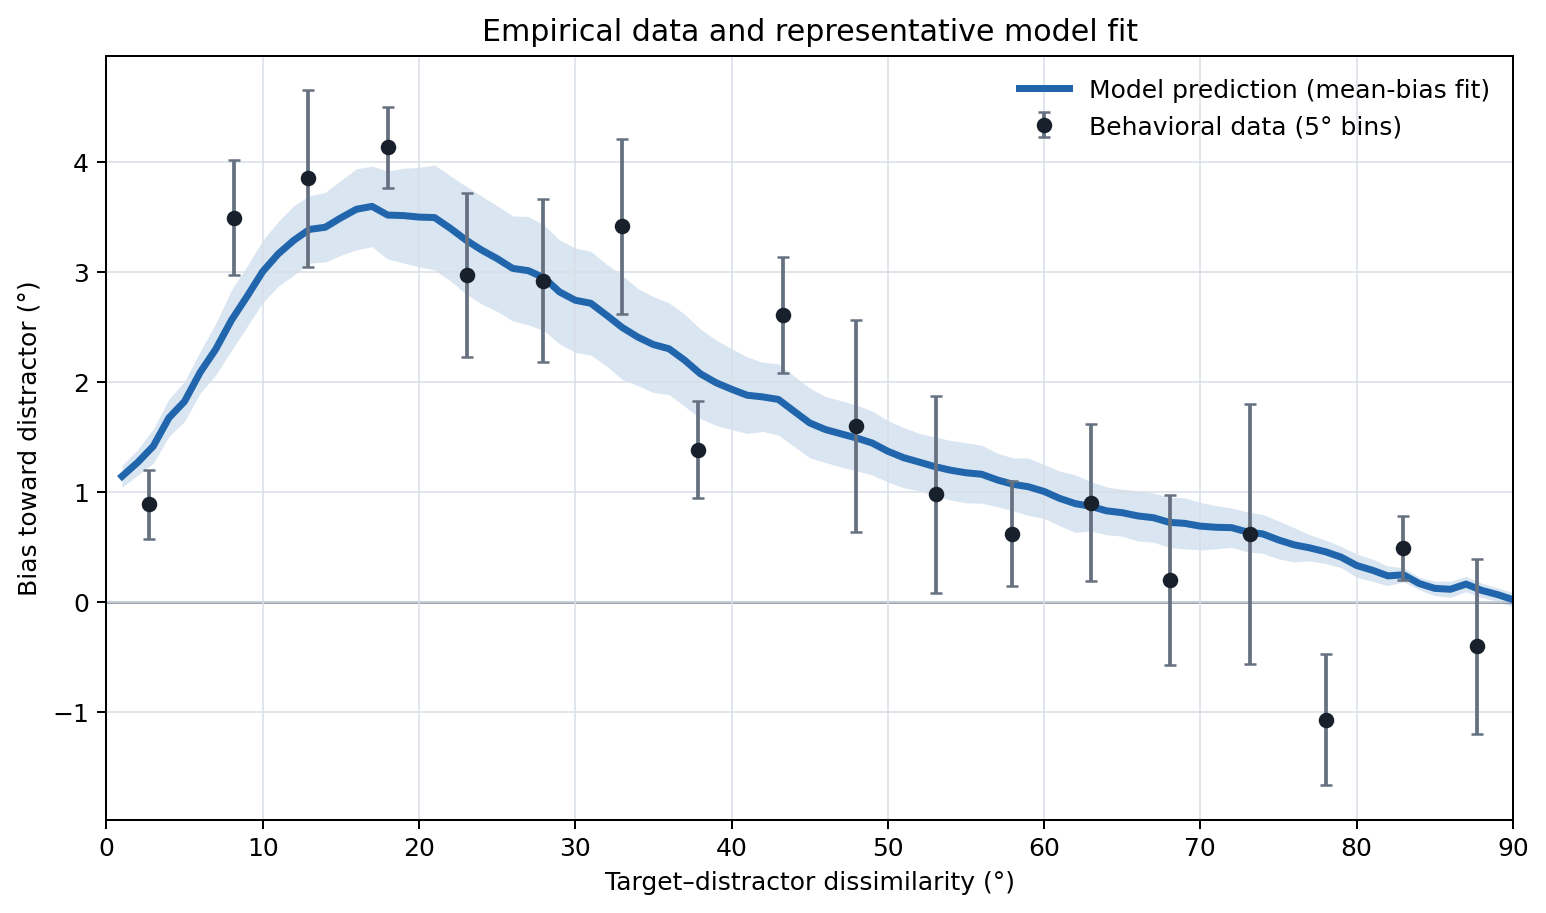
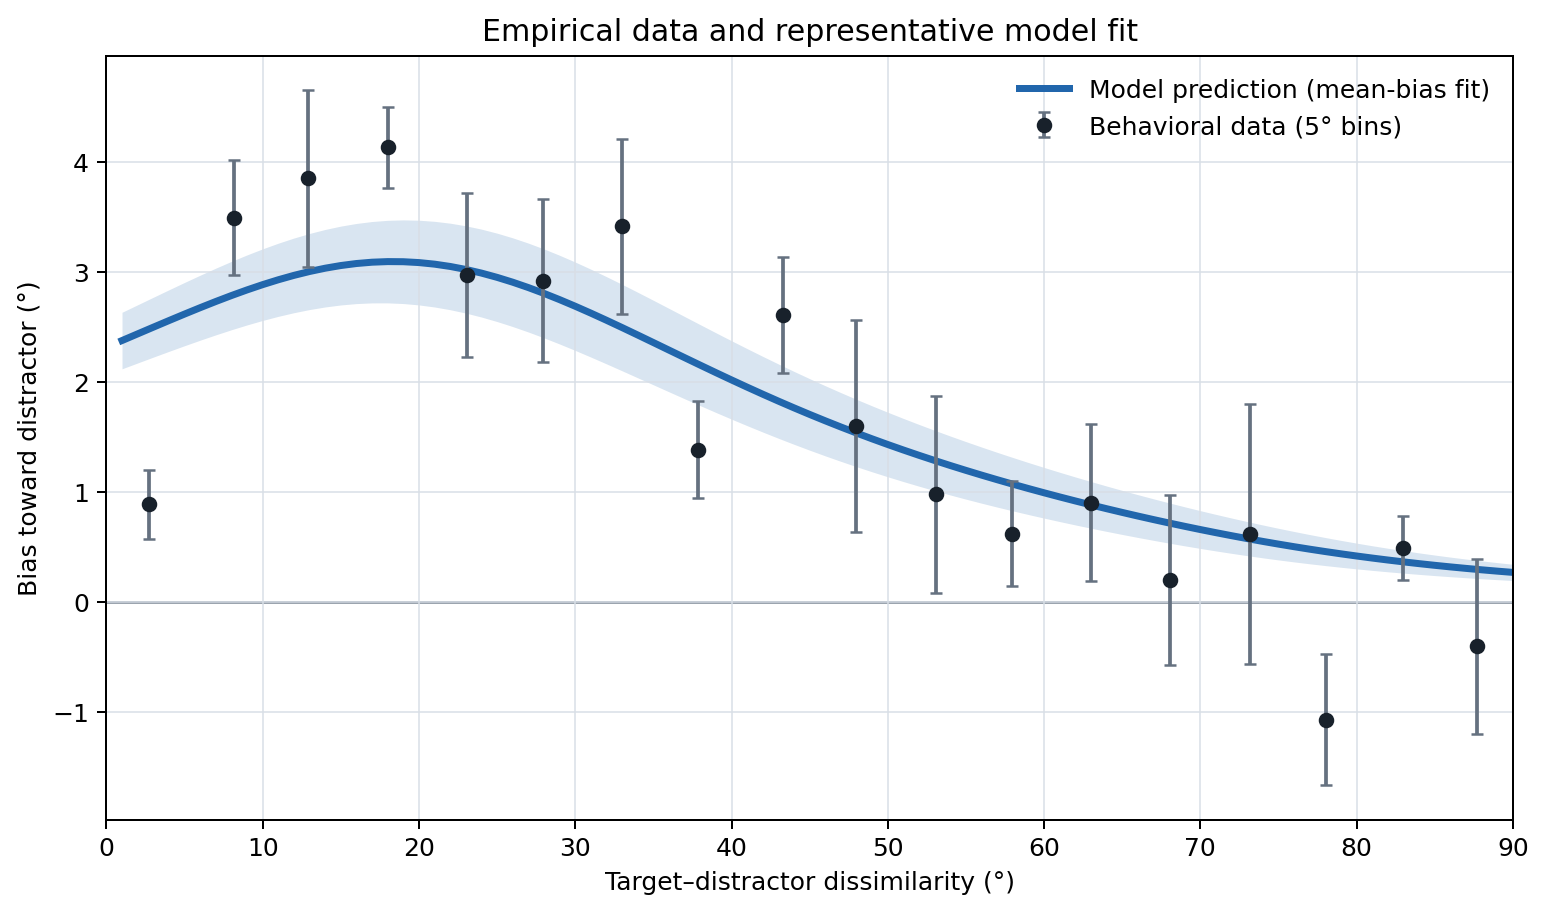
Refresh WNM documentation figures and fix legacy test import

diff --git a/docs/generate_pipeline_figure.py b/docs/generate_pipeline_figure.py
@@ -1,29 +1,34 @@
 #!/usr/bin/env python3
-"""Generate a model-grounded illustration of the Demixing Model pipeline.
+"""Generate a model-grounded illustration of the current WNM pipeline.
 
-The construction panels illustrate the operations performed by the code rather
-than one exact training run. The likelihood surface, CSH2026 predictions,
-behavioral observations, and fitted curve come from project outputs.
+The construction panels illustrate the operations rather than one training run.
+The response density comes from the WNM simulator; the network tile and curves
+use packaged-WNM predictions and current fit exports.
 """
 
 import argparse
-import pickle
 import sys
 from pathlib import Path
 
+import jax
 import matplotlib.pyplot as plt
 from matplotlib.lines import Line2D
 from matplotlib.patches import FancyArrowPatch, FancyBboxPatch
 import numpy as np
 import pandas as pd
+from scipy.ndimage import gaussian_filter
 
 
 REPO_ROOT = Path(__file__).resolve().parents[1]
 sys.path.insert(0, str(REPO_ROOT))
-sys.path.insert(0, str(REPO_ROOT / "neural_network_optimization"))
 
-from docs.generate_readme_figures import prepare_fitting_data  # noqa: E402
-from shared.utils import AveragedSurface  # noqa: E402
+from docs.generate_readme_figures import _first_list, prepare_fitting_data  # noqa: E402
+from shared.mu1_axis import bin_indices_np, mu1_grid_np  # noqa: E402
+from shared.prediction import predictor_from_surrogate  # noqa: E402
+from shared.surrogate import load_surrogate  # noqa: E402
+from surface_computation.wnm_simulation import simulate  # noqa: E402
+
+plt.style.use("default")
 
 
 NAVY = "#101f5b"
@@ -42,15 +47,6 @@ def _require(path: Path, label: str) -> Path:
     if not path.is_file():
         raise FileNotFoundError(f"{label} not found: {path}")
     return path
-
-
-class _SurfaceUnpickler(pickle.Unpickler):
-    """Read surfaces saved before AveragedSurface moved out of __main__."""
-
-    def find_class(self, module, name):
-        if module == "__main__" and name == "AveragedSurface":
-            return AveragedSurface
-        return super().find_class(module, name)
 
 
 def _rounded_box(fig, bounds, edge, face="white", linewidth=1.5, radius=0.018):
@@ -83,12 +79,31 @@ def _polyline(fig, points, color=NAVY, linewidth=2.2):
     fig.lines.append(line)
 
 
-def _load_surface(path: Path):
-    with _require(path, "Averaged surface").open("rb") as stream:
-        record = _SurfaceUnpickler(stream).load()
-    if "parameters" not in record or "surface" not in record:
-        raise ValueError(f"Unexpected averaged-surface structure: {path}")
-    return record
+def _response_surfaces(predictions):
+    """Simulated training responses and a matching packaged-WNM prediction."""
+    row = predictions.iloc[len(predictions) // 2]
+    feature_grid = _first_list(predictions["feat_diff_grid"])
+    params = {name: float(row[name]) for name in ("sd_feat1", "sd_feat2", "sd_spat")}
+    n_samples = int(predictions["n_samples"].dropna().iloc[0])
+    design = np.column_stack((
+        *(np.full_like(feature_grid, params[name]) for name in params), feature_grid,
+    ))
+    predictor = predictor_from_surrogate(load_surrogate(n_samples=n_samples))
+    mass = np.asarray(predictor.cell_probabilities(design))
+    bias_grid = mu1_grid_np()
+    responses = np.asarray(simulate(jax.random.PRNGKey(7), design,
+                                    n_simulations=200, n_samples=n_samples,
+                                    block_rows=4))[:, :, 0]
+    counts = np.stack([np.bincount(bin_indices_np(row), minlength=len(bias_grid))
+                       for row in responses])
+    simulated = gaussian_filter(counts.astype(float), sigma=(1.5, 1.5),
+                                mode=("nearest", "wrap"))
+    simulated /= simulated.sum(axis=1, keepdims=True)
+    return {"parameters": {**params, "n_samples": n_samples,
+                           "random_seed": 7},
+            "surface": simulated.T, "predicted_surface": mass.T,
+            "feat_diff_grid": feature_grid,
+            "mu1_bias_grid": bias_grid}
 
 
 def _generate_evidence(surface_params, feature_difference=40.0, ident_difference=25.0):
@@ -125,16 +140,13 @@ def _plot_simulation(ax, surface_params):
     ax.grid(color=GRID, linewidth=0.4, alpha=0.5)
 
 
-def _surface_density(record):
-    surface = record["surface"]
-    log_density = np.asarray(surface.mu1_comp1_surface, dtype=float)
-    feature_grid = np.asarray(surface.feat_diff_grid, dtype=float)
-    bias_grid = np.asarray(surface.mu1_bias_grid, dtype=float)
+def _surface_density(record, field="surface"):
+    density = np.asarray(record[field], dtype=float)
+    feature_grid = np.asarray(record["feat_diff_grid"], dtype=float)
+    bias_grid = np.asarray(record["mu1_bias_grid"], dtype=float)
     mask_bias = (bias_grid >= -60) & (bias_grid <= 60)
     mask_feature = feature_grid <= 140
-    log_density = log_density[np.ix_(mask_bias, mask_feature)]
-    relative = np.exp(log_density - np.nanmax(log_density, axis=0, keepdims=True))
-    relative /= np.maximum(relative.sum(axis=0, keepdims=True), np.finfo(float).tiny)
+    relative = density[np.ix_(mask_bias, mask_feature)]
     relative /= relative.max()
     return feature_grid[mask_feature], bias_grid[mask_bias], relative
 
@@ -174,7 +186,7 @@ def _plot_network(ax, record):
         color = ("#91b7e9", "#9a76dd", "#80c96b")[index]
         ax.scatter(np.full_like(ys, x), ys, s=52, color=color, edgecolor=NAVY,
                    linewidth=0.65, zorder=2)
-    _, _, tile = _surface_density(record)
+    _, _, tile = _surface_density(record, "predicted_surface")
     ax.imshow(tile, extent=(0.79, 0.98, 0.33, 0.67), origin="lower",
               cmap="viridis", aspect="auto", interpolation="bilinear", zorder=2)
     for y in layer_y[-1]:
@@ -186,35 +198,23 @@ def _plot_network(ax, record):
 
 
 def _plot_predictions(ax, predictions):
-    required = {"sd_feat1", "sd_feat2", "sd_spat", "feat_diff", "mu1_density_asymmetry"}
+    required = {"sd_feat1", "sd_feat2", "sd_spat", "mu1_expectation_curve", "feat_diff_grid"}
     missing = required.difference(predictions.columns)
     if missing:
-        raise ValueError(f"CSH2026 prediction export lacks columns: {sorted(missing)}")
-    selected = predictions[
-        (predictions["sd_feat1"] == 40)
-        & predictions["sd_feat2"].isin((20, 40, 60))
-        & (predictions["sd_spat"] == 20)
-    ]
-    styles = (
-        (20, "Higher", "#d55e00"),
-        (40, "Same", "#009e73"),
-        (60, "Lower", "#0072b2"),
-    )
-    for non_target_noise, label, color in styles:
-        curve = selected[selected["sd_feat2"] == non_target_noise].sort_values("feat_diff")
-        if curve.empty:
-            raise ValueError(f"CSH2026 predictions are missing the '{label}' curve")
-        ax.plot(curve["feat_diff"], 100 * curve["mu1_density_asymmetry"],
-                color=color, linewidth=1.8, label=label)
+        raise ValueError(f"WNM prediction export lacks columns: {sorted(missing)}")
+    feature_grid = _first_list(predictions["feat_diff_grid"])
+    for (_, row), color in zip(predictions.iterrows(), ("#2c7bb6", "#f28e2b", "#b2182b")):
+        ax.plot(feature_grid, np.asarray(row["mu1_expectation_curve"]),
+                color=color, linewidth=1.8, label=f"{row['sd_spat']:g}°")
     ax.axhline(0, color="#7b8794", linewidth=0.8, linestyle=(0, (4, 3)))
-    ax.set_xlim(4, 180)
-    ax.set_xticks((4, 45, 90, 135, 180))
+    ax.set_xlim(feature_grid[0], feature_grid[-1])
+    ax.set_xticks((2, 45, 90, 135, 180))
     ax.set_xlabel("item dissimilarity (°)", fontsize=7, labelpad=1)
-    ax.set_ylabel("bias (%)", fontsize=7.3, labelpad=2)
+    ax.set_ylabel("predicted bias (°)", fontsize=7.3, labelpad=2)
     ax.tick_params(labelsize=6.5, length=2)
     ax.spines[["top", "right"]].set_visible(False)
     ax.grid(color=GRID, linewidth=0.45, alpha=0.65)
-    ax.legend(title="Target noise relative\nto non-target", frameon=False,
+    ax.legend(title="Identifiability noise", frameon=False,
               fontsize=6, title_fontsize=6, loc="lower right", handlelength=2.3)
 
 
@@ -242,8 +242,8 @@ def _plot_fit(ax, trials_path, curves_path, objective):
 
 
 def create_pipeline_figure(args):
-    surface_record = _load_surface(args.surface)
-    predictions = pd.read_csv(_require(args.csh_predictions, "CSH2026 prediction export"))
+    predictions = pd.read_parquet(_require(args.predictions, "WNM prediction export"))
+    surface_record = _response_surfaces(predictions)
     _require(args.trials, "Prepared behavioral trials")
     _require(args.fit_curves, "Fitted-curve export")
 
@@ -251,7 +251,7 @@ def create_pipeline_figure(args):
     fig.text(0.5, 0.963, "Demixing Model pipeline", ha="center", va="top",
              fontsize=29, weight="bold", color=NAVY)
     fig.text(0.5, 0.912,
-             "From simulated evidence to theoretical predictions and fits of behavioral data",
+             "From simulated responses to predictions and fits of behavioral data",
              ha="center", va="top", fontsize=14, style="italic", color="#49619c")
 
     _rounded_box(fig, (0.018, 0.055, 0.445, 0.80), CONSTRUCTION, CONSTRUCTION_BG)
@@ -273,8 +273,8 @@ def create_pipeline_figure(args):
     for bounds in construction_boxes:
         _rounded_box(fig, bounds, CONSTRUCTION, "white", linewidth=1.1, radius=0.012)
     fig.text(0.091, 0.704, "1. Simulations", ha="center", fontsize=12, weight="bold", color=INK)
-    fig.text(0.229, 0.704, "2. Surface creation", ha="center", fontsize=12, weight="bold", color=INK)
-    fig.text(0.378, 0.704, "3. Neural-network training", ha="center", fontsize=10.5,
+    fig.text(0.229, 0.704, "2. Response density", ha="center", fontsize=12, weight="bold", color=INK)
+    fig.text(0.378, 0.704, "3. Surrogate training", ha="center", fontsize=10.5,
              weight="bold", color=INK)
 
     sim_ax = fig.add_axes((0.041, 0.365, 0.100, 0.24))
@@ -288,15 +288,15 @@ def create_pipeline_figure(args):
              "simulate noisy evidence\nfrom two items",
              ha="center", va="center", fontsize=8.5, color=INK)
     fig.text(0.229, 0.245,
-             "combine simulations into\nlikelihood surfaces",
+             "learn how response bias\nchanges with dissimilarity",
              ha="center", va="center", fontsize=8.5, color=INK)
     fig.text(0.378, 0.245,
-             "train a fast approximation\nof those surfaces",
+             "train a wrapped-mixture\ndensity predictor",
              ha="center", va="center", fontsize=8.5, color=INK)
 
     checkpoint_bounds = (0.472, 0.31, 0.098, 0.27)
     _rounded_box(fig, checkpoint_bounds, NAVY, "white", linewidth=1.4, radius=0.014)
-    fig.text(0.521, 0.505, "PRETRAINED", ha="center", fontsize=8.5, color=NAVY, weight="bold")
+    fig.text(0.521, 0.505, "PRETRAINED WNM", ha="center", fontsize=8.5, color=NAVY, weight="bold")
     fig.text(0.521, 0.445, "Demixing\nModel", ha="center", va="center",
              fontsize=14, color=INK, weight="bold")
     fig.text(0.521, 0.370,
@@ -338,7 +338,7 @@ def create_pipeline_figure(args):
     _arrow(fig, (0.580, 0.326), (0.608, 0.326), linewidth=2.2)
 
     fig.text(0.5, 0.022,
-             "The surface and curves come from model outputs; the construction diagrams are explanatory illustrations.",
+             "Response density comes from WNM simulations; network output and curves use the packaged predictor.",
              ha="center", fontsize=8, color=MUTED)
     args.output.parent.mkdir(parents=True, exist_ok=True)
     fig.savefig(args.output, dpi=args.dpi, bbox_inches="tight", facecolor="white")
@@ -347,25 +347,14 @@ def create_pipeline_figure(args):
 
 def parse_args():
     parser = argparse.ArgumentParser(description=__doc__)
-    parser.add_argument(
-        "--surface", type=Path,
-        default=Path(
-            "../results/averaged_surfaces_10k_100samples_circular/"
-            "averaged_sf1_40.0_sf2_60.0_sp_40.0.pkl"
-        ),
-        help="A saved averaged_sf1_*.pkl surface (generated locally; not shipped).",
-    )
-    parser.add_argument(
-        "--csh-predictions", type=Path,
-        default=Path("../results/csh2026_100samples_circular/sim_model_preds_raw_nn.csv"),
-        help="Raw CSH2026 predictions generated with the 100-sample pretrained model.",
-    )
+    parser.add_argument("--predictions", type=Path,
+                        default=Path("results/prediction_example.parquet"))
     parser.add_argument("--trials", type=Path, default=Path("example_data/fischer_whitney_prepared.csv"))
     parser.add_argument(
         "--fit-curves", type=Path,
         default=Path("results/fischer_whitney_20samples_circular/csv_exports/fitted_curves.csv"),
     )
-    parser.add_argument("--fit-objective", default="expectation")
+    parser.add_argument("--fit-objective", default="smoothed_exp")
     parser.add_argument("--output", type=Path, default=Path("docs/images/model_pipeline.png"))
     parser.add_argument("--dpi", type=int, default=180)
     return parser.parse_args()

diff --git a/docs/generate_readme_figures.py b/docs/generate_readme_figures.py
@@ -37,7 +37,8 @@ def prepare_fitting_data(trials_path: Path, curves_path: Path, objective: str):
     )
 
     curves = pd.read_csv(curves_path)
-    curves = curves[curves["optimizer"] == objective]
+    curves = curves[(curves["optimizer"] == objective)
+                    & (curves["subject"] != "combined")]
     if curves.empty:
         raise ValueError(f"No {objective!r} curves found in {curves_path}")
     fitted = curves.groupby("feat_diff", as_index=False).agg(

diff --git a/tests/test_search_dispatch.py b/tests/test_search_dispatch.py
@@ -151,7 +151,7 @@ def test_exhaustive_requires_a_cache_path(tmp_path):
 def test_the_backend_is_recorded_in_the_run_fingerprint(cache_root, tmp_path):
     """Two runs that searched differently must not resume onto each other: their
     results are not interchangeable."""
-    import run_fingerprint as rf
+    from model_fit_to_data import run_fingerprint as rf
     root, key = cache_root
 
     out = tmp_path / "fp"

diff --git a/docs/README.md b/docs/README.md
@@ -17,15 +17,13 @@ The remainder of this file documents README figure generation and the historical
 
 ## README figure sources
 
-`generate_pipeline_figure.py` creates an experimental pipeline figure that is not currently embedded in the main README. Its construction panels are illustrations grounded in the model code rather than a literal depiction of one simulation or the exact neural-network architecture. The likelihood surface, prediction curves, behavioral observations, and fitted curve are read from project outputs.
-
-The committed figure uses a broad surface from the full simulation outputs and the 100-sample predictions prepared for CSH2026. Its defaults match the local outputs used for rendering:
+`generate_pipeline_figure.py` creates a current WNM pipeline illustration that is not embedded in the main README. Its construction panels are explanatory; the response-density panel uses a small run of the current WNM simulator, the network tile uses the packaged 20-sample predictor, and the prediction and fitting panels use the outputs described below. After preparing those outputs, run:
 
 ```bash
 python docs/generate_pipeline_figure.py
 ```
 
-Because averaged surfaces are not currently shipped, regenerating the figure requires a local `averaged_sf1_*.pkl` surface supplied with `--surface`. The CSH2026 curves default to `../results/csh2026_100samples_circular/sim_model_preds_raw_nn.csv` and can be replaced with `--csh-predictions`. The fitting inputs can likewise be changed with `--trials` and `--fit-curves`.
+Use `--predictions`, `--trials`, and `--fit-curves` to select other WNM outputs.
 
 `generate_readme_figures.py` creates the two data-derived figures embedded in the main README. It does not reuse the repository's older diagnostic images. The prediction figure reads the output of the documented prediction example:
 
@@ -37,7 +35,7 @@ python surface_simulator_for_predictions/surface_simulator.py \
   --skip-motor-noise
 ```
 
-The fitting figure reads the prepared <a href="https://doi.org/10.1038/nn.3689" title="Fischer, J., &amp; Whitney, D. (2014). Serial dependence in visual perception. Nature Neuroscience, 17(5), 738–743. https://doi.org/10.1038/nn.3689">Fischer and Whitney (2014)</a> trials and fitted curves written by `export_wnm_fit_curves.py` under `csv_exports/fitted_curves.csv`. The generator defaults to the maintained `smoothed_exp` mean-bias objective. Pass `--fit-objective expectation` only when intentionally reproducing an older hard-binned expectation fit. After running `demo_fischer_whitney.py`, regenerate both assets with:
+The fitting figure reads the prepared <a href="https://doi.org/10.1038/nn.3689" title="Fischer, J., &amp; Whitney, D. (2014). Serial dependence in visual perception. Nature Neuroscience, 17(5), 738–743. https://doi.org/10.1038/nn.3689">Fischer and Whitney (2014)</a> trials and fitted curves written by `export_wnm_fit_curves.py` under `csv_exports/fitted_curves.csv`. It excludes the pooled `combined` pseudo-subject from both the observations and fitted curve, then averages the four real subjects. The generator defaults to the maintained `smoothed_exp` mean-bias objective. Pass `--fit-objective expectation` only when intentionally reproducing an older hard-binned expectation fit. After running `demo_fischer_whitney.py`, regenerate both assets with:
 
 ```bash
 python docs/generate_readme_figures.py
